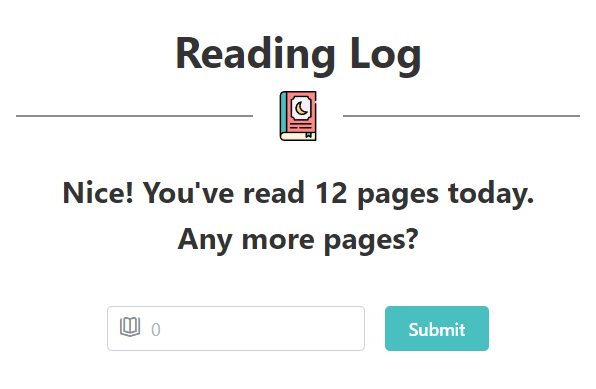
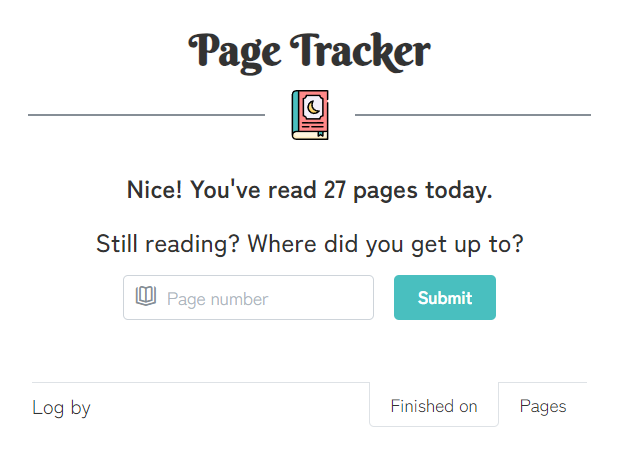
Add form to record the page finished on

diff --git a/src/PageTracker.Client/src/components/feature/TodaysPages.jsx b/src/PageTracker.Client/src/components/feature/TodaysPages.jsx
@@ -1,8 +1,10 @@
 import { useEffect, useState } from 'react'
+import { Tabs, Stack, Text } from "@mantine/core";
 import TodaysPagesHeading from './TodaysPagesHeading';
 import RecordPagesForm from './RecordPagesForm';
+import RecordFinishedOnForm from './RecordFinishedOnForm';
 
-const API_URL = "/api/reading-session/pages";
+const API_URL = "/api/reading-session";
 
 function TodaysPages() {
   const [numPagesRead, setNumPagesRead] = useState(0);
@@ -15,7 +17,8 @@ function TodaysPages() {
 
   // Mock the API call
   const fetchNumPagesRead = () => {
-    fetch(API_URL)
+    setError('');
+    fetch(`${API_URL}/pages`)
       .then(response => {
         if (response.ok) {
           return response.text();
@@ -27,12 +30,10 @@ function TodaysPages() {
   }
 
   const handleRecordPages = (data) => {
+    setError('');
     console.log(`Recording ${data.numPages} page/s read`);
     const parsed = Number.parseInt(data.numPages);
-    fetch(`${API_URL}/${parsed}`,
-      {
-        method: 'POST'
-      })
+    fetch(`${API_URL}/pages/${parsed}`, { method: 'POST' })
       .then(response => {
         if (response.ok) {
           return response.json();
@@ -43,10 +44,47 @@ function TodaysPages() {
       .catch(error => setError(error))
   }
 
+  const handleRecordFinishedOn = (data) => {
+    setError('');
+    console.log(`Recording that the page finished on was ${data.pageNumber}`);
+    const parsed = Number.parseInt(data.pageNumber);
+    fetch(`${API_URL}/finished-at/${parsed}`, { method: 'POST' })
+      .then(response => {
+        if (response.ok) {
+          return response.json();
+        }
+        throw new Error("Your reading session was not recorded.")
+      })
+    .then(() => fetchNumPagesRead())
+    .catch(error => setError(error));
+  }
+
   return (
     <>
-      <TodaysPagesHeading numPagesRead={numPagesRead} />
-      <RecordPagesForm onSubmit={handleRecordPages} error={error} />
+      <Tabs w="100%" maw="700" color="warm-red.3" defaultValue="finished-on" variant="outline" pt="20" inverted>
+        <Tabs.Panel value="finished-on">
+          <Stack mih="100" align="center" justify="center" gap="xs">
+            <TodaysPagesHeading todaysPages={numPagesRead} />
+            <RecordFinishedOnForm onSubmit={handleRecordFinishedOn} error={error} todaysPages={numPagesRead} />
+          </Stack>
+        </Tabs.Panel>
+        <Tabs.Panel value="pages">
+          <Stack mih="100" align="center" justify="center" gap="xs">
+            <TodaysPagesHeading todaysPages={numPagesRead} />
+            <RecordPagesForm onSubmit={handleRecordPages} error={error} todaysPages={numPagesRead} />
+          </Stack>
+        </Tabs.Panel>
+
+        <Tabs.List mt="50" justify="flex-end" >
+          <Text pt="6" mr="auto">Log by</Text>
+          <Tabs.Tab value="finished-on">
+            Finished on
+          </Tabs.Tab>
+          <Tabs.Tab value="pages">
+            Pages
+          </Tabs.Tab>
+        </Tabs.List>
+      </Tabs>  
     </>
   )
 }

diff --git a/src/PageTracker.Client/src/components/feature/RecordFinishedOnForm.jsx b/src/PageTracker.Client/src/components/feature/RecordFinishedOnForm.jsx
@@ -1,0 +1,59 @@
+import { useState } from 'react'
+import { Button, TextInput, Flex, Text } from "@mantine/core";
+import ErrorAlert from '../common/ErrorAlert';
+
+function RecordFinishedOnForm({ onSubmit, error, todaysPages }) {
+  const [formData, setFormData] = useState({ pageNumber: '' });
+
+  const handleSubmit = (event) => {
+    event.preventDefault();
+
+    if (validateForm() == "") {
+      onSubmit(formData);
+      setFormData({ pageNumber: '' }); // Reset form
+    }
+  }
+
+  const handleFormChange = (event) => {
+    const { name, value } = event.target;
+    setFormData(prevData => ({
+      ...prevData,
+      [name]: value,
+    }));
+  };
+
+  const validateForm = () => {
+    if (formData.pageNumber != '' && isNaN(formData.pageNumber)) {
+      return "Please enter a number";
+    } else {
+      return "";
+    }
+  }
+
+  const getHeading = (numPages) => {
+    if (numPages <= 0) {
+      return "Where did you get up to?";
+    } else {
+      return "Still reading? Where did you get up to?"
+    }
+  }
+
+
+  return (
+    <>
+      {error && <ErrorAlert message={error.message} />}
+      <Text ta="center" size="xl" fw={500}>{getHeading(todaysPages)}</Text>
+      <form onSubmit={handleSubmit}>
+        <Flex justify="center" align="flex-end" direction="row" wrap="wrap" gap="md">
+          <TextInput name="pageNumber" value={formData.pageNumber} onChange={handleFormChange}
+            aria-label="Page number" placeholder="Page number"
+            leftSection={<i className="fi fi-rs-book-open-cover" />} error={validateForm()} />
+          <Button color="teal-blue" type="submit">Submit</Button>
+        </Flex>
+      </form>
+    </>
+  );
+
+}
+
+export default RecordFinishedOnForm;

diff --git a/src/PageTracker.Client/src/components/feature/RecordPagesForm.jsx b/src/PageTracker.Client/src/components/feature/RecordPagesForm.jsx
@@ -1,9 +1,9 @@
 import { useState } from 'react'
-import { Button, TextInput, Flex } from "@mantine/core";
+import { Button, TextInput, Flex, Text } from "@mantine/core";
 import ErrorAlert from '../common/ErrorAlert';
 
 // onSubmit - Function that accepts a numeric text input
-function RecordPagesForm({ onSubmit, error }) {
+function RecordPagesForm({ onSubmit, error, todaysPages }) {
   const [formData, setFormData] = useState({ numPages: '' });
 
   const handleSubmit = (event) => {
@@ -31,13 +31,22 @@ function RecordPagesForm({ onSubmit, error }) {
     }
   }
 
+  const getHeading = (numPages) => {
+    if (numPages <= 0) {
+      return "How many pages did you just read?";
+    } else {
+      return "Any more pages?"
+    }
+  }
+
   return (
     <>
     {error && <ErrorAlert message={error.message} />}
+    <Text ta="center" size="xl" fw={500}>{getHeading(todaysPages)}</Text>
     <form onSubmit={handleSubmit}>
       <Flex justify="center" align="flex-start" direction="row" wrap="wrap" gap="md">
         <TextInput name="numPages" value={formData.numPages} onChange={handleFormChange}
-          placeholder="0" aria-label="Number of pages"
+          placeholder="Number of pages" aria-label="Number of pages"
           leftSection={<i className="fi fi-rs-book-open-cover" />} error={validateForm()}  />
         <Button color="teal-blue" type="submit">Submit</Button>
       </Flex>

diff --git a/src/PageTracker.Client/src/App.jsx b/src/PageTracker.Client/src/App.jsx
@@ -1,26 +1,31 @@
 import '@mantine/core/styles.css';
 import './assets/styles/uicons-regular-straight.css'
 
-import { MantineProvider, createTheme, Button, Group, AppShell } from '@mantine/core';
+import { MantineProvider, createTheme, AppShell } from '@mantine/core';
 import Header from './components/layout/Header';
 import Footer from './components/layout/Footer';
 import PageLog from './PageLog'
 
-const title = "Reading Log";
+const title = "Page Tracker";
 const theme = createTheme({
   colors: {
     'warm-red': ["#ffeaec", "#fdd4d6", "#f4a7ac", "#ec777e", "#e64f57", "#e3353f", "#e22732", "#c91a25", "#b31220", "#9e0419"],
     'teal-blue': ["#e4fdfd", "#d7f4f4", "#b3e5e5", "#8dd7d7", "#6dcbcb", "#57c3c3", "#49bfbf", "#37a8a8", "#269696", "#008282"]
   },
   scale: 1.25,
-  black: "#333333"
+  black: "#333333",
+  fontFamily: 'Zen Kaku Gothic New, sans-serif',
+  headings: {
+    fontWeight: 900,
+    fontFamily: 'Berkshire Swash, serif',
+  }
 });
 
 function App() {
   
 
   return (
-    <MantineProvider theme={theme} defaultColorScheme="auto">
+    <MantineProvider theme={theme} defaultColorScheme="light">
       <AppShell padding="md" withBorder={false} header={{ height: 100 }} footer={{ height:50}}>
 
         <AppShell.Header padding="md">

diff --git a/src/PageTracker.Client/src/components/feature/TodaysPagesHeading.jsx b/src/PageTracker.Client/src/components/feature/TodaysPagesHeading.jsx
@@ -1,19 +1,21 @@
-function TodaysPagesHeading({ numPagesRead }) {
+import { Text } from "@mantine/core";
+
+function TodaysPagesHeading({ todaysPages }) {
 
   const getHeading = (numPagesRead) => {
     if (numPagesRead <= 0) {
-      return <h2>How many pages did you just read?</h2>;
+      return '';
     }
     else if (numPagesRead == 1) {
-      return <h2 style={{ textAlign: "center" }}>One page is still progress!<br />Any more pages?</h2>
+      return "One page is still progress!";
     }
     else {
-      return <h2 style={{ textAlign: "center" }}>Nice! You&apos;ve read {numPagesRead} pages today.<br />Any more pages?</h2>
+      return `Nice! You've read ${numPagesRead} pages today.`;
     }
   };
 
   return (
-    <div>{getHeading(numPagesRead)}</div>
+    <>{todaysPages && <Text ta="center" fw={600} size="xl"> {getHeading(todaysPages)}</Text>}</>
   );
 }
 

diff --git a/src/PageTracker.Client/index.html b/src/PageTracker.Client/index.html
@@ -14,6 +14,9 @@
     <meta name="msapplication-TileColor" content="#4bc0c0">
     <meta name="msapplication-config" content="browserconfig.xml">
     <meta name="theme-color" content="#4bc0c0">
+    <link rel="preconnect" href="https://fonts.googleapis.com">
+    <link rel="preconnect" href="https://fonts.gstatic.com" crossorigin>
+    <link href="https://fonts.googleapis.com/css2?family=Berkshire+Swash&family=Zen+Kaku+Gothic+New:wght@300;400;500;700;900&display=swap" rel="stylesheet">
     <title>PageTracker</title>
 </head>
   <body>

diff --git a/src/PageTracker.Client/src/PageLog.jsx b/src/PageTracker.Client/src/PageLog.jsx
@@ -5,7 +5,7 @@ function PageLog() {
 
   return (
     <Center>
-      <Stack align="center" justify="center">
+      <Stack align="center" justify="center" w="95%">
         <TodaysPages />
       </Stack>
     </Center>
